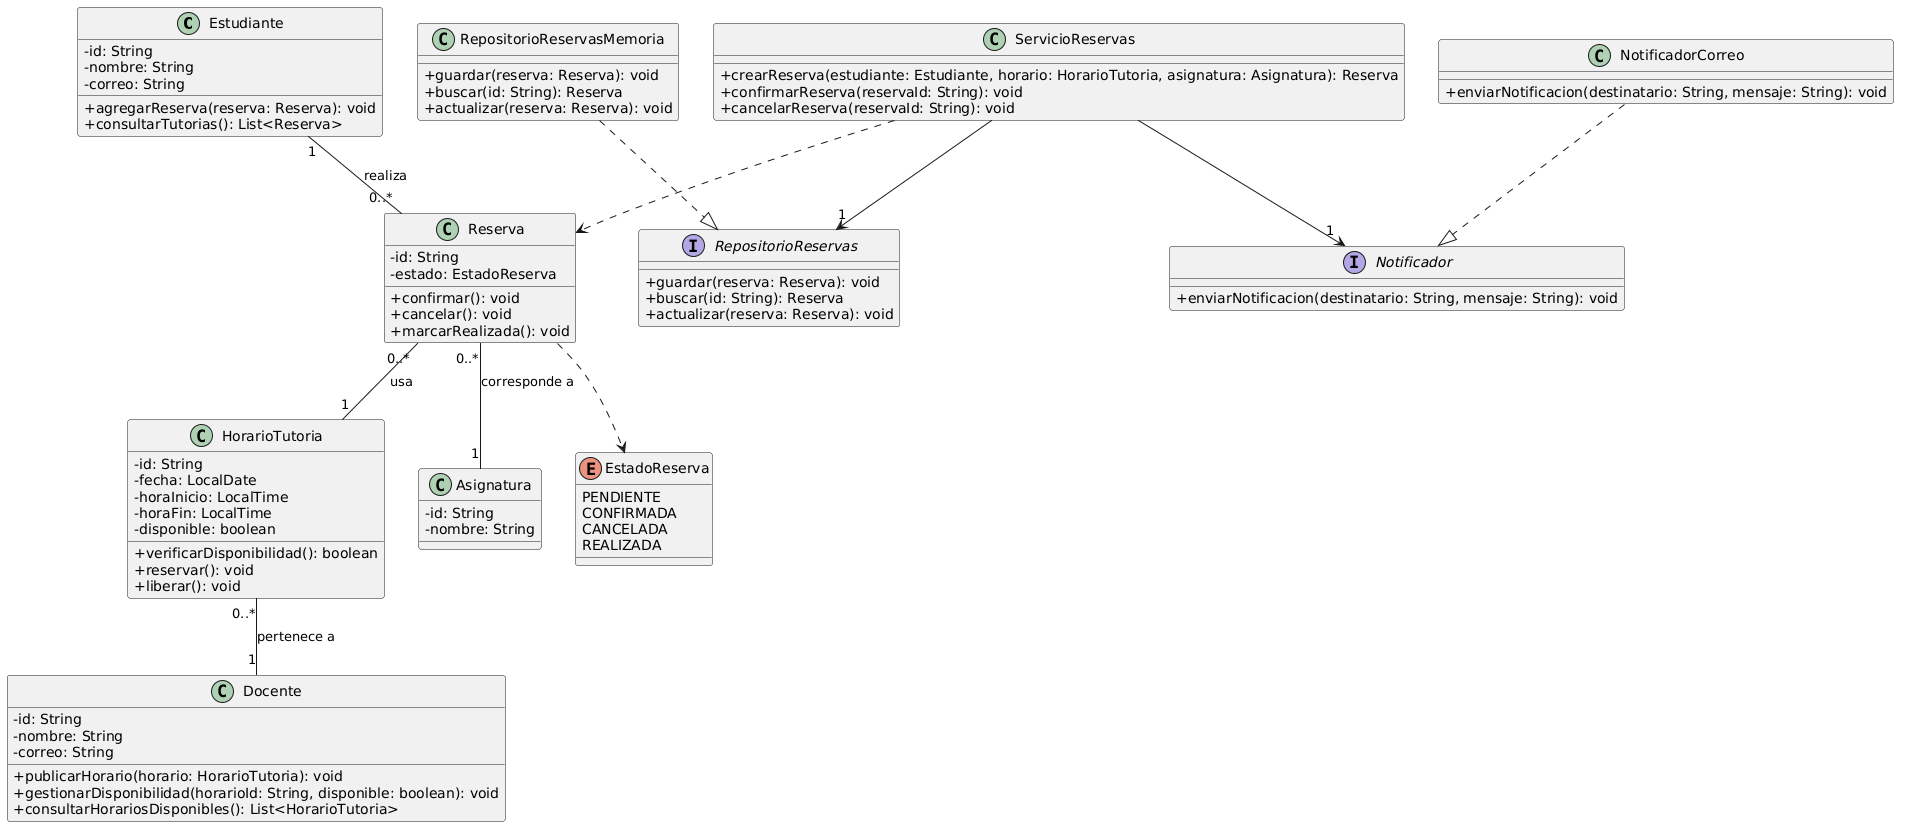
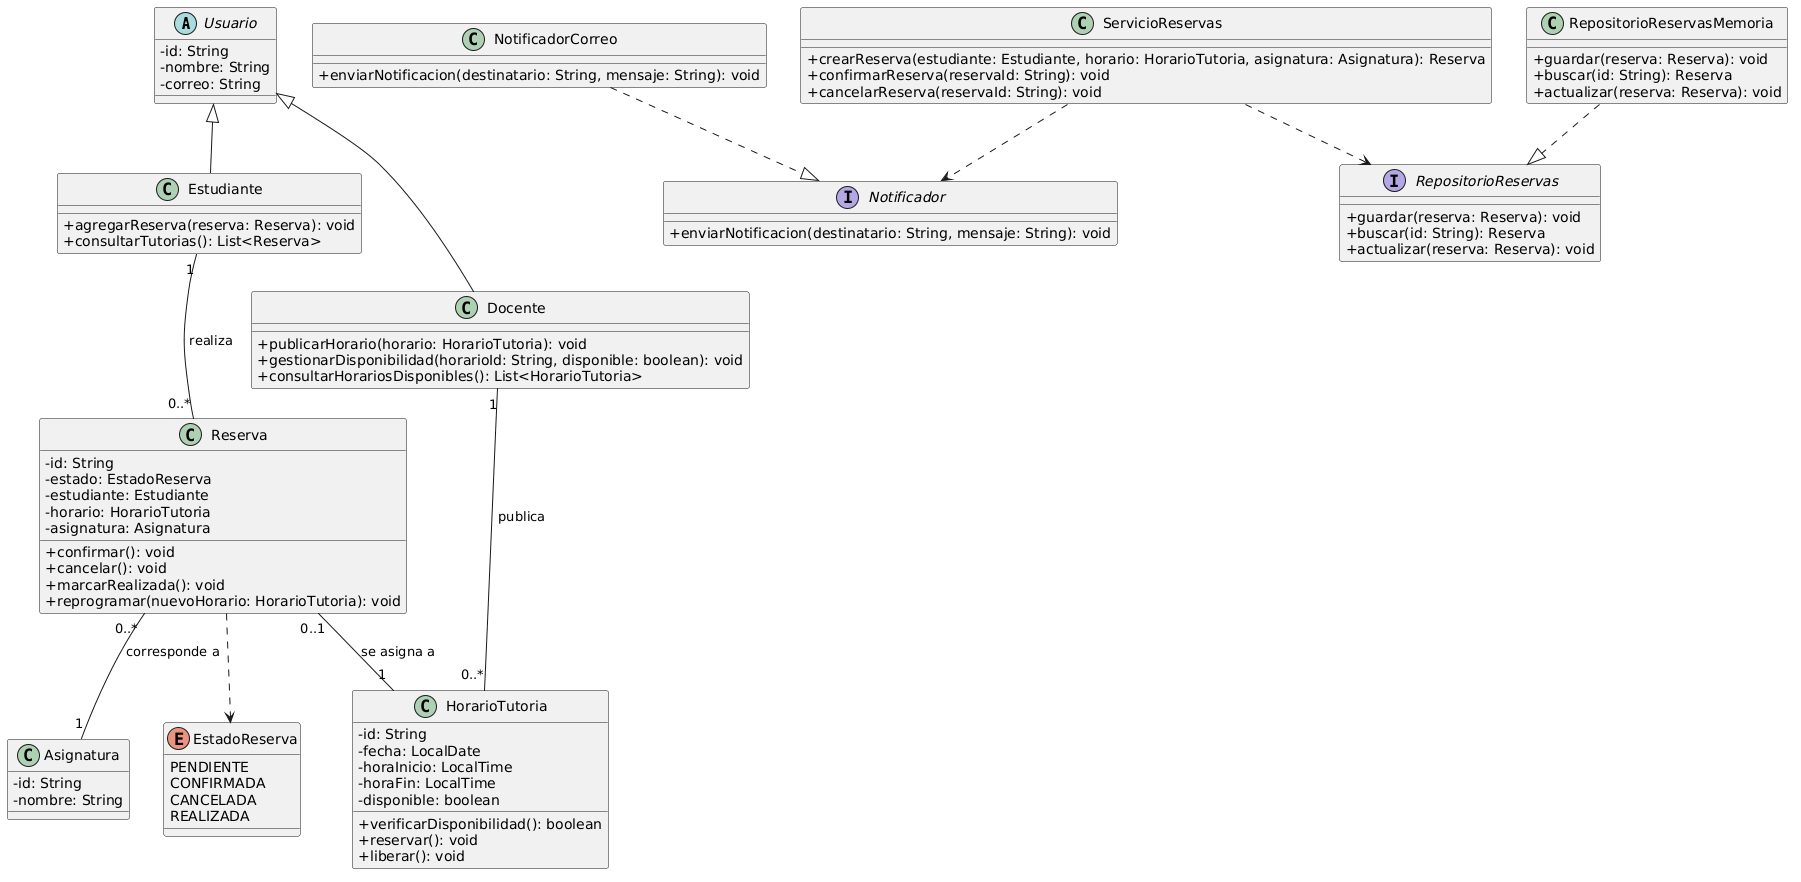
docs: actualizar diagrama UML y README con la herencia de Usuario

diff --git a/README.md b/README.md
@@ -10,11 +10,12 @@ Los estudiantes necesitan reservar tutorías con los docentes de sus asignaturas
 
 | Clase / Interfaz | Responsabilidad |
 |---|---|
+| `Usuario` (abstracta) | Generaliza la identidad común de estudiantes y docentes (id, nombre, correo). |
 | `Estudiante` | Representa al estudiante y mantiene sus reservas realizadas. |
 | `Docente` | Publica horarios de tutoría y gestiona su disponibilidad. |
 | `HorarioTutoria` | Representa un bloque de tutoría de un docente y controla si está disponible u ocupado. |
 | `Asignatura` | Identifica la materia sobre la que se da la tutoría. |
-| `Reserva` | Registra el encuentro y protege las reglas de transición entre estados. |
+| `Reserva` | Registra el encuentro, protege las reglas de transición entre estados y permite reprogramar hacia otro horario disponible. |
 | `EstadoReserva` | Enumera los estados válidos de una reserva. |
 | `ServicioReservas` | Coordina la creación, confirmación y cancelación de reservas usando el repositorio y el notificador. |
 | `RepositorioReservas` (interfaz) | Define cómo se guarda y se busca una reserva sin fijar la tecnología. |
@@ -24,8 +25,9 @@ Los estudiantes necesitan reservar tutorías con los docentes de sus asignaturas
 
 ## Decisiones de diseño
 
-- Se usó composición en lugar de herencia: una `Reserva` se compone de un `Estudiante`, un `HorarioTutoria` y una `Asignatura`, porque la relación real es "tiene un", no "es un".
-- Las reglas de estado viven dentro de `Reserva` (`confirmar`, `cancelar`, `marcarRealizada`): el atributo `estado` no tiene setter público, así ningún otro componente puede saltarse las validaciones.
+- La herencia se usó solo donde existe una relación "es un" real: `Estudiante` y `Docente` son tipos de `Usuario` y comparten identidad y correo de contacto; la superclase es abstracta porque un usuario genérico no existe en el dominio.
+- Para el resto de relaciones se usó composición: una `Reserva` se compone de un `Estudiante`, un `HorarioTutoria` y una `Asignatura`, porque la relación real es "tiene un", no "es un".
+- Las reglas de estado viven dentro de `Reserva` (`confirmar`, `cancelar`, `marcarRealizada`, `reprogramar`): el atributo `estado` no tiene setter público, así ningún otro componente puede saltarse las validaciones. Reprogramar libera el horario anterior, ocupa el nuevo y devuelve la reserva a pendiente.
 - `HorarioTutoria` encapsula su disponibilidad con `reservar()` y `liberar()`, de modo que no se puede ocupar dos veces el mismo horario.
 - `ServicioReservas` concentra la coordinación del caso de uso (validar disponibilidad, crear la reserva, guardar y notificar) para que las clases del dominio no dependan de infraestructura.
 
@@ -41,17 +43,17 @@ El diagrama fuente está en [docs/modelo-clases.puml](docs/modelo-clases.puml) y
 
 ```mermaid
 classDiagram
-    class Estudiante {
+    class Usuario {
+        <<abstract>>
         -String id
         -String nombre
         -String correo
+    }
+    class Estudiante {
         +agregarReserva(Reserva) void
         +consultarTutorias() List~Reserva~
     }
     class Docente {
-        -String id
-        -String nombre
-        -String correo
         +publicarHorario(HorarioTutoria) void
         +gestionarDisponibilidad(String, boolean) void
         +consultarHorariosDisponibles() List~HorarioTutoria~
@@ -76,6 +78,7 @@ classDiagram
         +confirmar() void
         +cancelar() void
         +marcarRealizada() void
+        +reprogramar(HorarioTutoria) void
     }
     class EstadoReserva {
         <<enumeration>>
@@ -107,14 +110,15 @@ classDiagram
         +buscar(String) Reserva
         +actualizar(Reserva) void
     }
+    Usuario <|-- Estudiante
+    Usuario <|-- Docente
     Estudiante "1" -- "0..*" Reserva : realiza
-    Reserva "0..*" -- "1" HorarioTutoria : usa
-    HorarioTutoria "0..*" -- "1" Docente : pertenece a
+    Docente "1" -- "0..*" HorarioTutoria : publica
+    Reserva "0..1" -- "1" HorarioTutoria : se asigna a
     Reserva "0..*" -- "1" Asignatura : corresponde a
     Reserva ..> EstadoReserva
-    ServicioReservas --> RepositorioReservas
-    ServicioReservas --> Notificador
-    ServicioReservas ..> Reserva
+    ServicioReservas ..> RepositorioReservas
+    ServicioReservas ..> Notificador
     NotificadorCorreo ..|> Notificador
     RepositorioReservasMemoria ..|> RepositorioReservas
 ```
